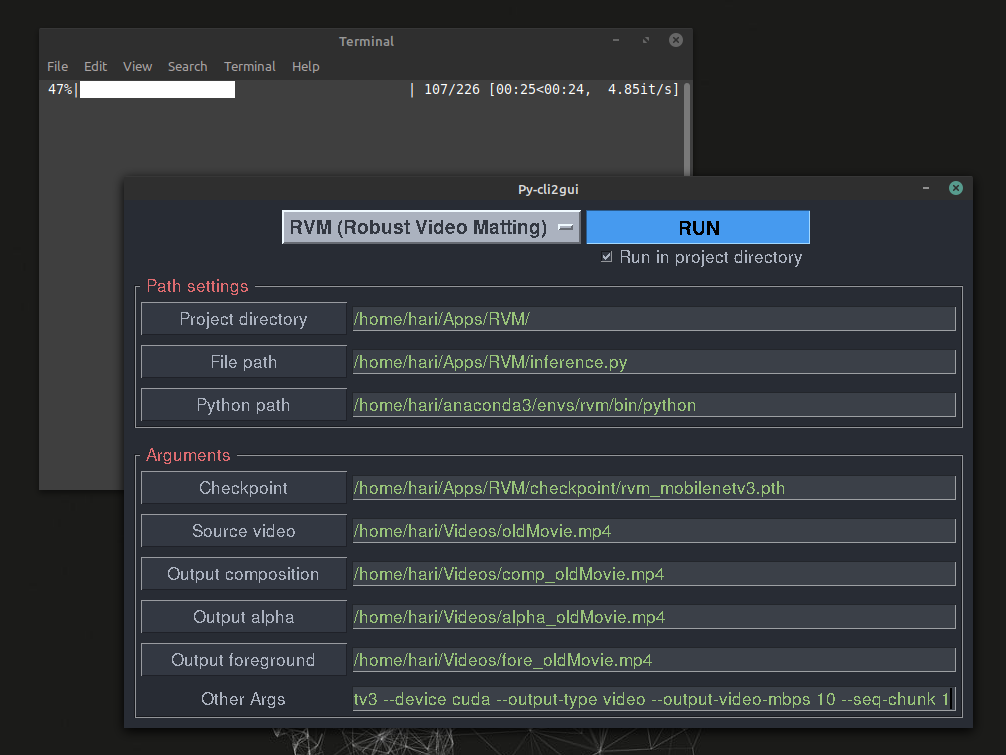
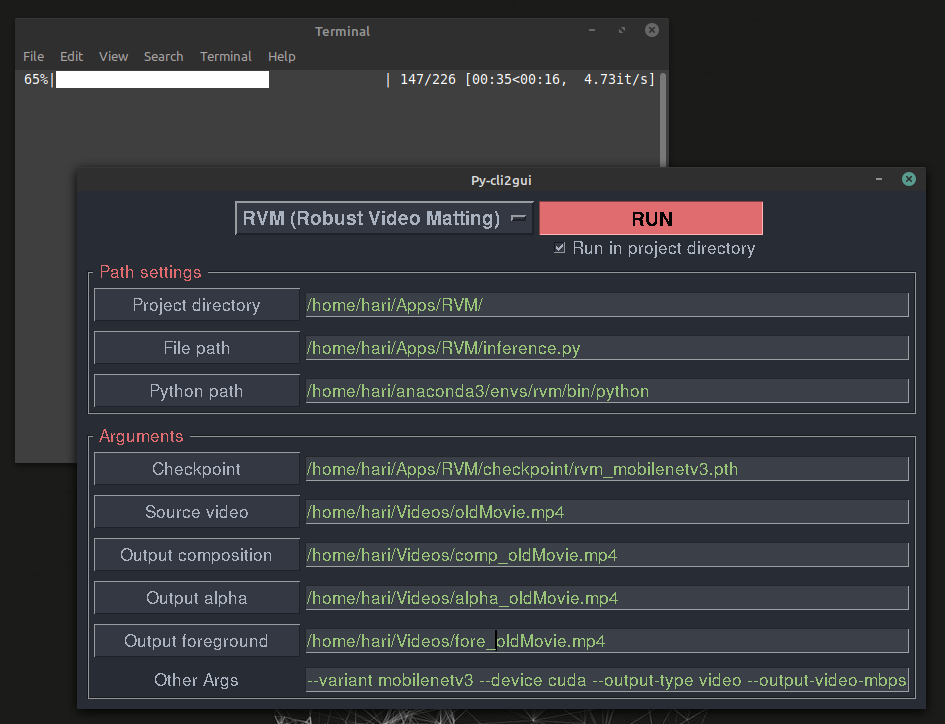
Add right click menu

diff --git a/demo/main.py b/demo/main.py
@@ -15,10 +15,43 @@ class Theme:
     buttonWidth = 18
     fieldWidth = 60
 
+# https://stackoverflow.com/questions/4266566/stardand-context-menu-in-python-tkinter-text-widget-when-mouse-right-button-is-p
+def rClicker(e):
+    try:
+        def rClick_Copy(e, apnd=0):
+            e.widget.event_generate('<Control-c>')
+        def rClick_Cut(e):
+            e.widget.event_generate('<Control-x>')
+        def rClick_Paste(e):
+            e.widget.event_generate('<Control-v>')
+        e.widget.focus()
+        nclst=[
+               (' Cut', lambda e=e: rClick_Cut(e)),
+               (' Copy', lambda e=e: rClick_Copy(e)),
+               (' Paste', lambda e=e: rClick_Paste(e)),
+               ]
+        rmenu = tk.Menu(None, tearoff=0, takefocus=0)
+        rmenu.config(bg=Theme.colorA_2, fg=Theme.colorB_2, activebackground=Theme.colorB_3)
+        for (txt, cmd) in nclst:
+            rmenu.add_command(label=txt, command=cmd)
+        rmenu.tk_popup(e.x_root+40, e.y_root+10,entry="0")
+    except tk.TclError:
+        pass
+    return "break"
+
+def rClickbinder(r):
+    try:
+        for b in [ 'Text', 'Entry', 'Listbox', 'Label']: #
+            r.bind_class(b, sequence='<Button-3>',
+                         func=rClicker, add='')
+    except tk.TclError:
+        pass
+
 def createInput(frame, index=0, name="STRING", type=None, value=None):
     fieldText = tk.StringVar()
     field = tk.Entry(frame, textvariable=fieldText, width=Theme.fieldWidth)
     field.config(highlightthickness=0, bg=Theme.colorA_3, fg=Theme.colorB_4)
+    field.bind('<Button-3>',rClicker, add='')
     field.grid(row=index, column=1, padx=(0,5), pady=(5,5))
     if value is not None: fieldText.set(value)
 
@@ -42,7 +75,7 @@ def createInput(frame, index=0, name="STRING", type=None, value=None):
 
 class App:
     def __init__(self, root):
-        root.title("GUI Manager")
+        root.title("Py-cli2gui")
 
         with open('config.json') as json_file:
             self.projects = json.load(json_file)
@@ -56,12 +89,12 @@ class App:
         self.currentProjectName.set(list(self.projects.keys())[0])
         self.currentProjectName.trace("w", self.setCurrentProject)
         optionMenu = tk.OptionMenu(frame, self.currentProjectName, *self.projects.keys())
-        optionMenu.config(bg=Theme.colorB_2, fg=Theme.colorA_2, highlightthickness=0, activebackground=Theme.colorB_3)
+        optionMenu.config(bg=Theme.colorA_2, fg=Theme.colorB_2, highlightthickness=0, activebackground=Theme.colorB_3)
         optionMenu["menu"].config(bg=Theme.colorA_2, fg=Theme.colorB_2, activebackground=Theme.colorB_3)
         optionMenu["font"] = _font
         optionMenu.grid(row=0, column=0)
 
-        runButton = tk.Button(frame, fg="#fff", bg=Theme.colorB_1, activebackground=Theme.colorB_3, width=Theme.buttonWidth)
+        runButton = tk.Button(frame, fg=Theme.colorB_2, bg=Theme.colorA_2, activebackground=Theme.colorB_1, width=Theme.buttonWidth)
         runButton["text"] = 'RUN'
         runButton["command"] = self.runCommand
         runButton["font"] = _font
@@ -81,7 +114,7 @@ class App:
         self.projectDirectory = createInput(fileFrame, index=0, name="Project directory", type="DIRECTORY")
         self.filePath = createInput(fileFrame, index=1, name="File path", type="FILE")
         self.pythonPath = createInput(fileFrame, index=2, name="Python path", type="FILE")
-        fileFrame.pack(fill="both", expand="yes", padx=10, pady=5)
+        fileFrame.pack(fill="both", expand="yes", padx=10, pady=0)
 
         self.setCurrentProject()
 

diff --git a/source/main.py b/source/main.py
@@ -15,10 +15,43 @@ class Theme:
     buttonWidth = 18
     fieldWidth = 60
 
+# https://stackoverflow.com/questions/4266566/stardand-context-menu-in-python-tkinter-text-widget-when-mouse-right-button-is-p
+def rClicker(e):
+    try:
+        def rClick_Copy(e, apnd=0):
+            e.widget.event_generate('<Control-c>')
+        def rClick_Cut(e):
+            e.widget.event_generate('<Control-x>')
+        def rClick_Paste(e):
+            e.widget.event_generate('<Control-v>')
+        e.widget.focus()
+        nclst=[
+               (' Cut', lambda e=e: rClick_Cut(e)),
+               (' Copy', lambda e=e: rClick_Copy(e)),
+               (' Paste', lambda e=e: rClick_Paste(e)),
+               ]
+        rmenu = tk.Menu(None, tearoff=0, takefocus=0)
+        rmenu.config(bg=Theme.colorA_2, fg=Theme.colorB_2, activebackground=Theme.colorB_3)
+        for (txt, cmd) in nclst:
+            rmenu.add_command(label=txt, command=cmd)
+        rmenu.tk_popup(e.x_root+40, e.y_root+10,entry="0")
+    except tk.TclError:
+        pass
+    return "break"
+
+def rClickbinder(r):
+    try:
+        for b in [ 'Text', 'Entry', 'Listbox', 'Label']: #
+            r.bind_class(b, sequence='<Button-3>',
+                         func=rClicker, add='')
+    except tk.TclError:
+        pass
+
 def createInput(frame, index=0, name="STRING", type=None, value=None):
     fieldText = tk.StringVar()
     field = tk.Entry(frame, textvariable=fieldText, width=Theme.fieldWidth)
     field.config(highlightthickness=0, bg=Theme.colorA_3, fg=Theme.colorB_4)
+    field.bind('<Button-3>',rClicker, add='')
     field.grid(row=index, column=1, padx=(0,5), pady=(5,5))
     if value is not None: fieldText.set(value)
 
@@ -56,12 +89,12 @@ class App:
         self.currentProjectName.set(list(self.projects.keys())[0])
         self.currentProjectName.trace("w", self.setCurrentProject)
         optionMenu = tk.OptionMenu(frame, self.currentProjectName, *self.projects.keys())
-        optionMenu.config(bg=Theme.colorB_2, fg=Theme.colorA_2, highlightthickness=0, activebackground=Theme.colorB_3)
+        optionMenu.config(bg=Theme.colorA_2, fg=Theme.colorB_2, highlightthickness=0, activebackground=Theme.colorB_3)
         optionMenu["menu"].config(bg=Theme.colorA_2, fg=Theme.colorB_2, activebackground=Theme.colorB_3)
         optionMenu["font"] = _font
         optionMenu.grid(row=0, column=0)
 
-        runButton = tk.Button(frame, fg="#fff", bg=Theme.colorB_1, activebackground=Theme.colorB_3, width=Theme.buttonWidth)
+        runButton = tk.Button(frame, fg=Theme.colorB_2, bg=Theme.colorA_2, activebackground=Theme.colorB_1, width=Theme.buttonWidth)
         runButton["text"] = 'RUN'
         runButton["command"] = self.runCommand
         runButton["font"] = _font
@@ -81,7 +114,7 @@ class App:
         self.projectDirectory = createInput(fileFrame, index=0, name="Project directory", type="DIRECTORY")
         self.filePath = createInput(fileFrame, index=1, name="File path", type="FILE")
         self.pythonPath = createInput(fileFrame, index=2, name="Python path", type="FILE")
-        fileFrame.pack(fill="both", expand="yes", padx=10, pady=5)
+        fileFrame.pack(fill="both", expand="yes", padx=10, pady=0)
 
         self.setCurrentProject()
 
